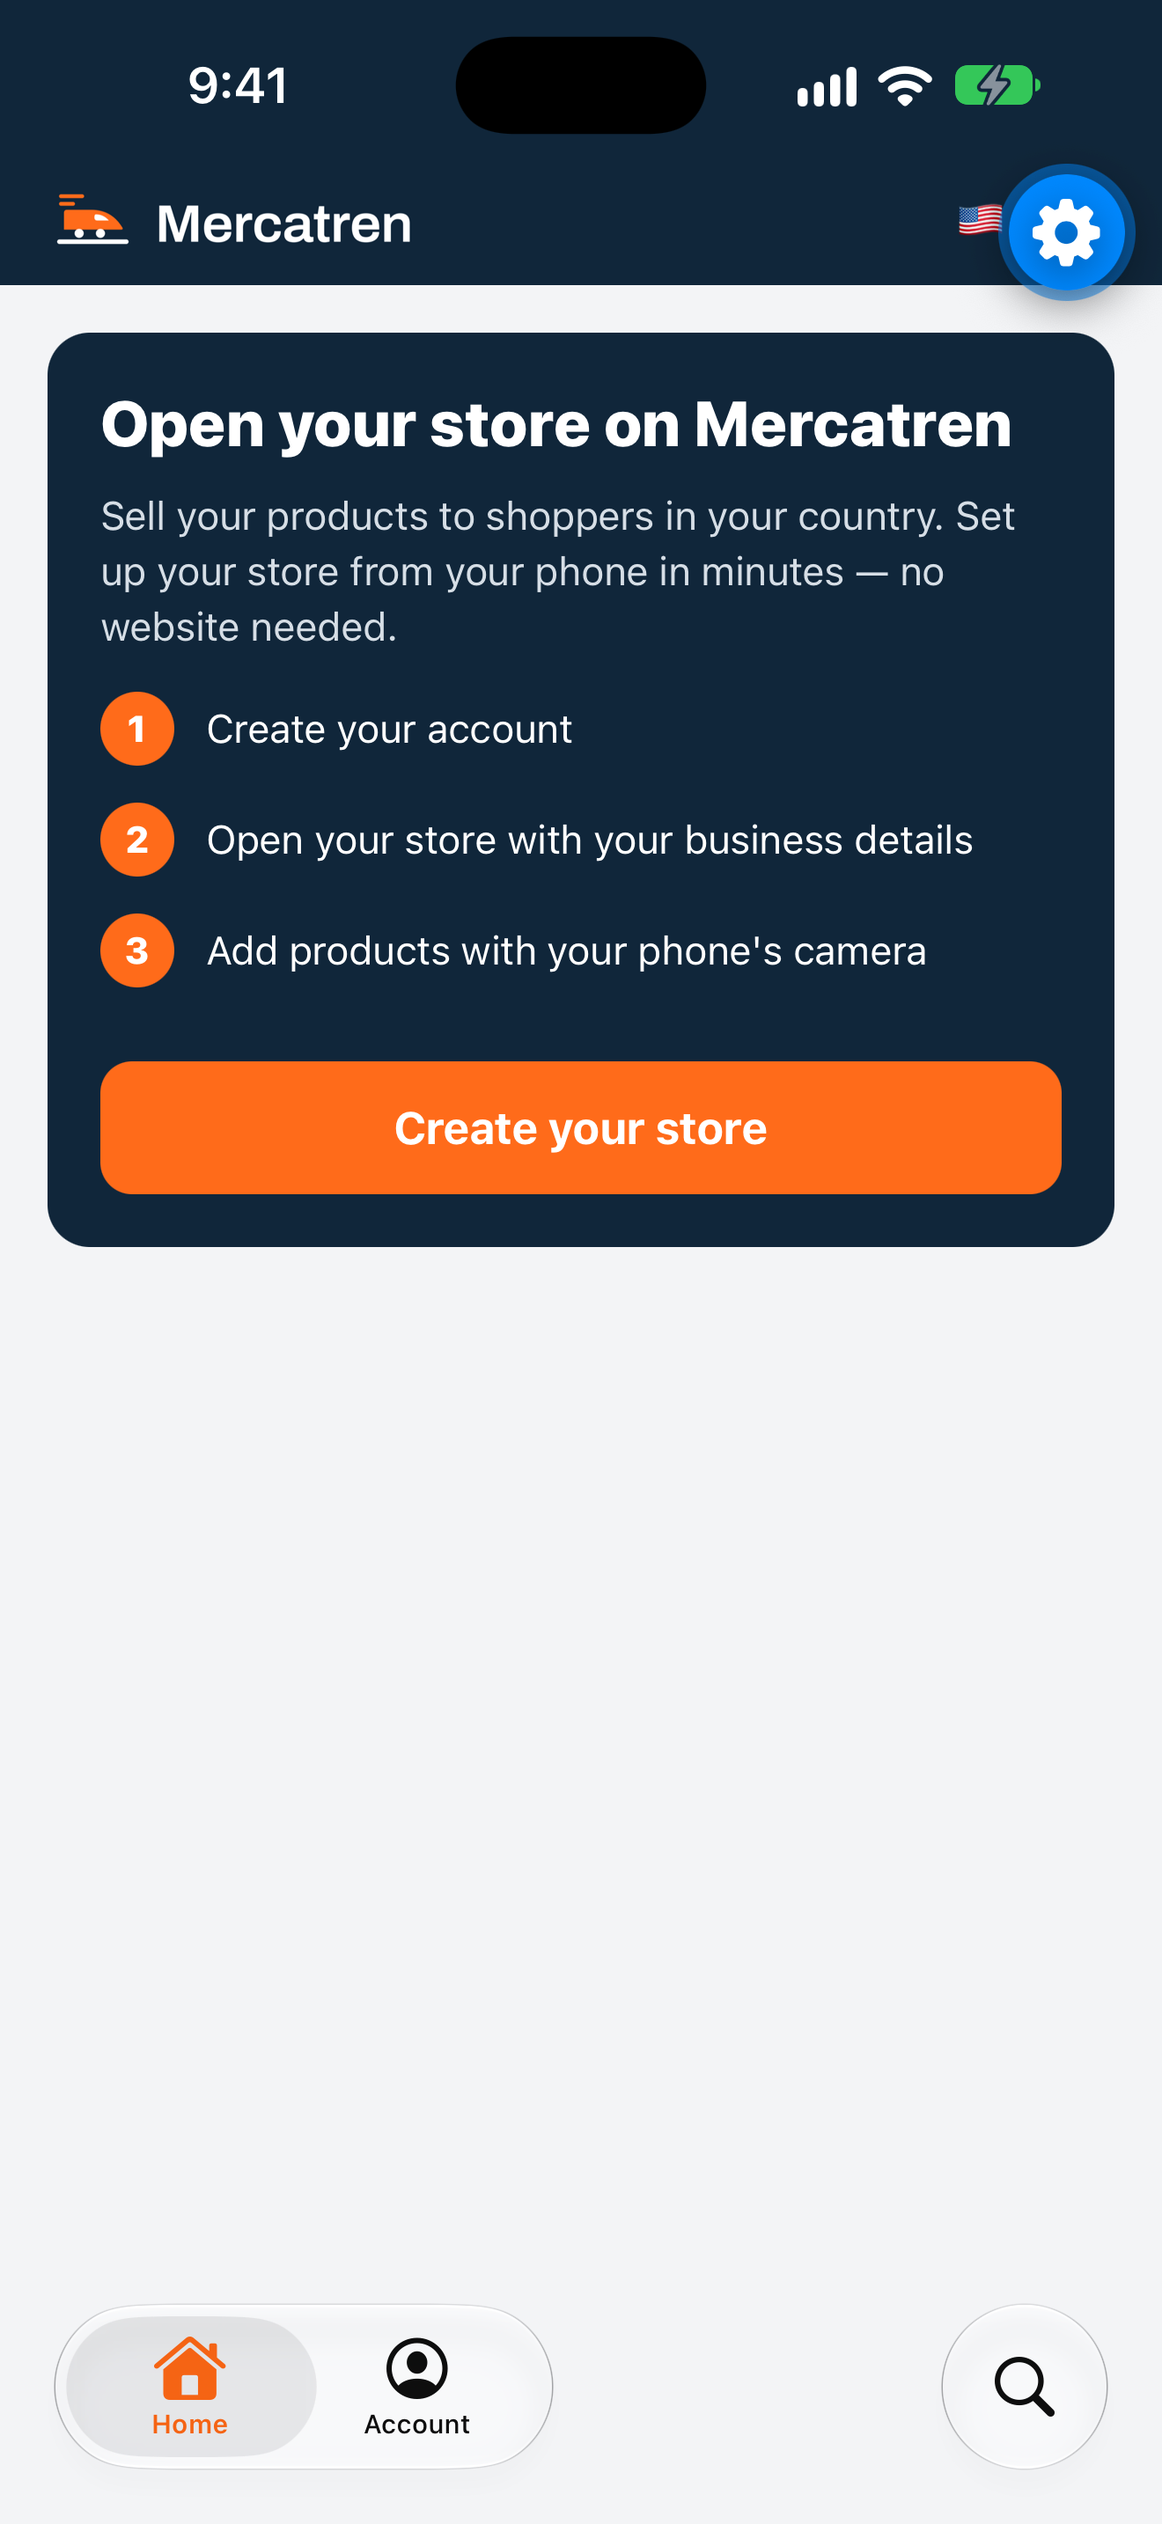
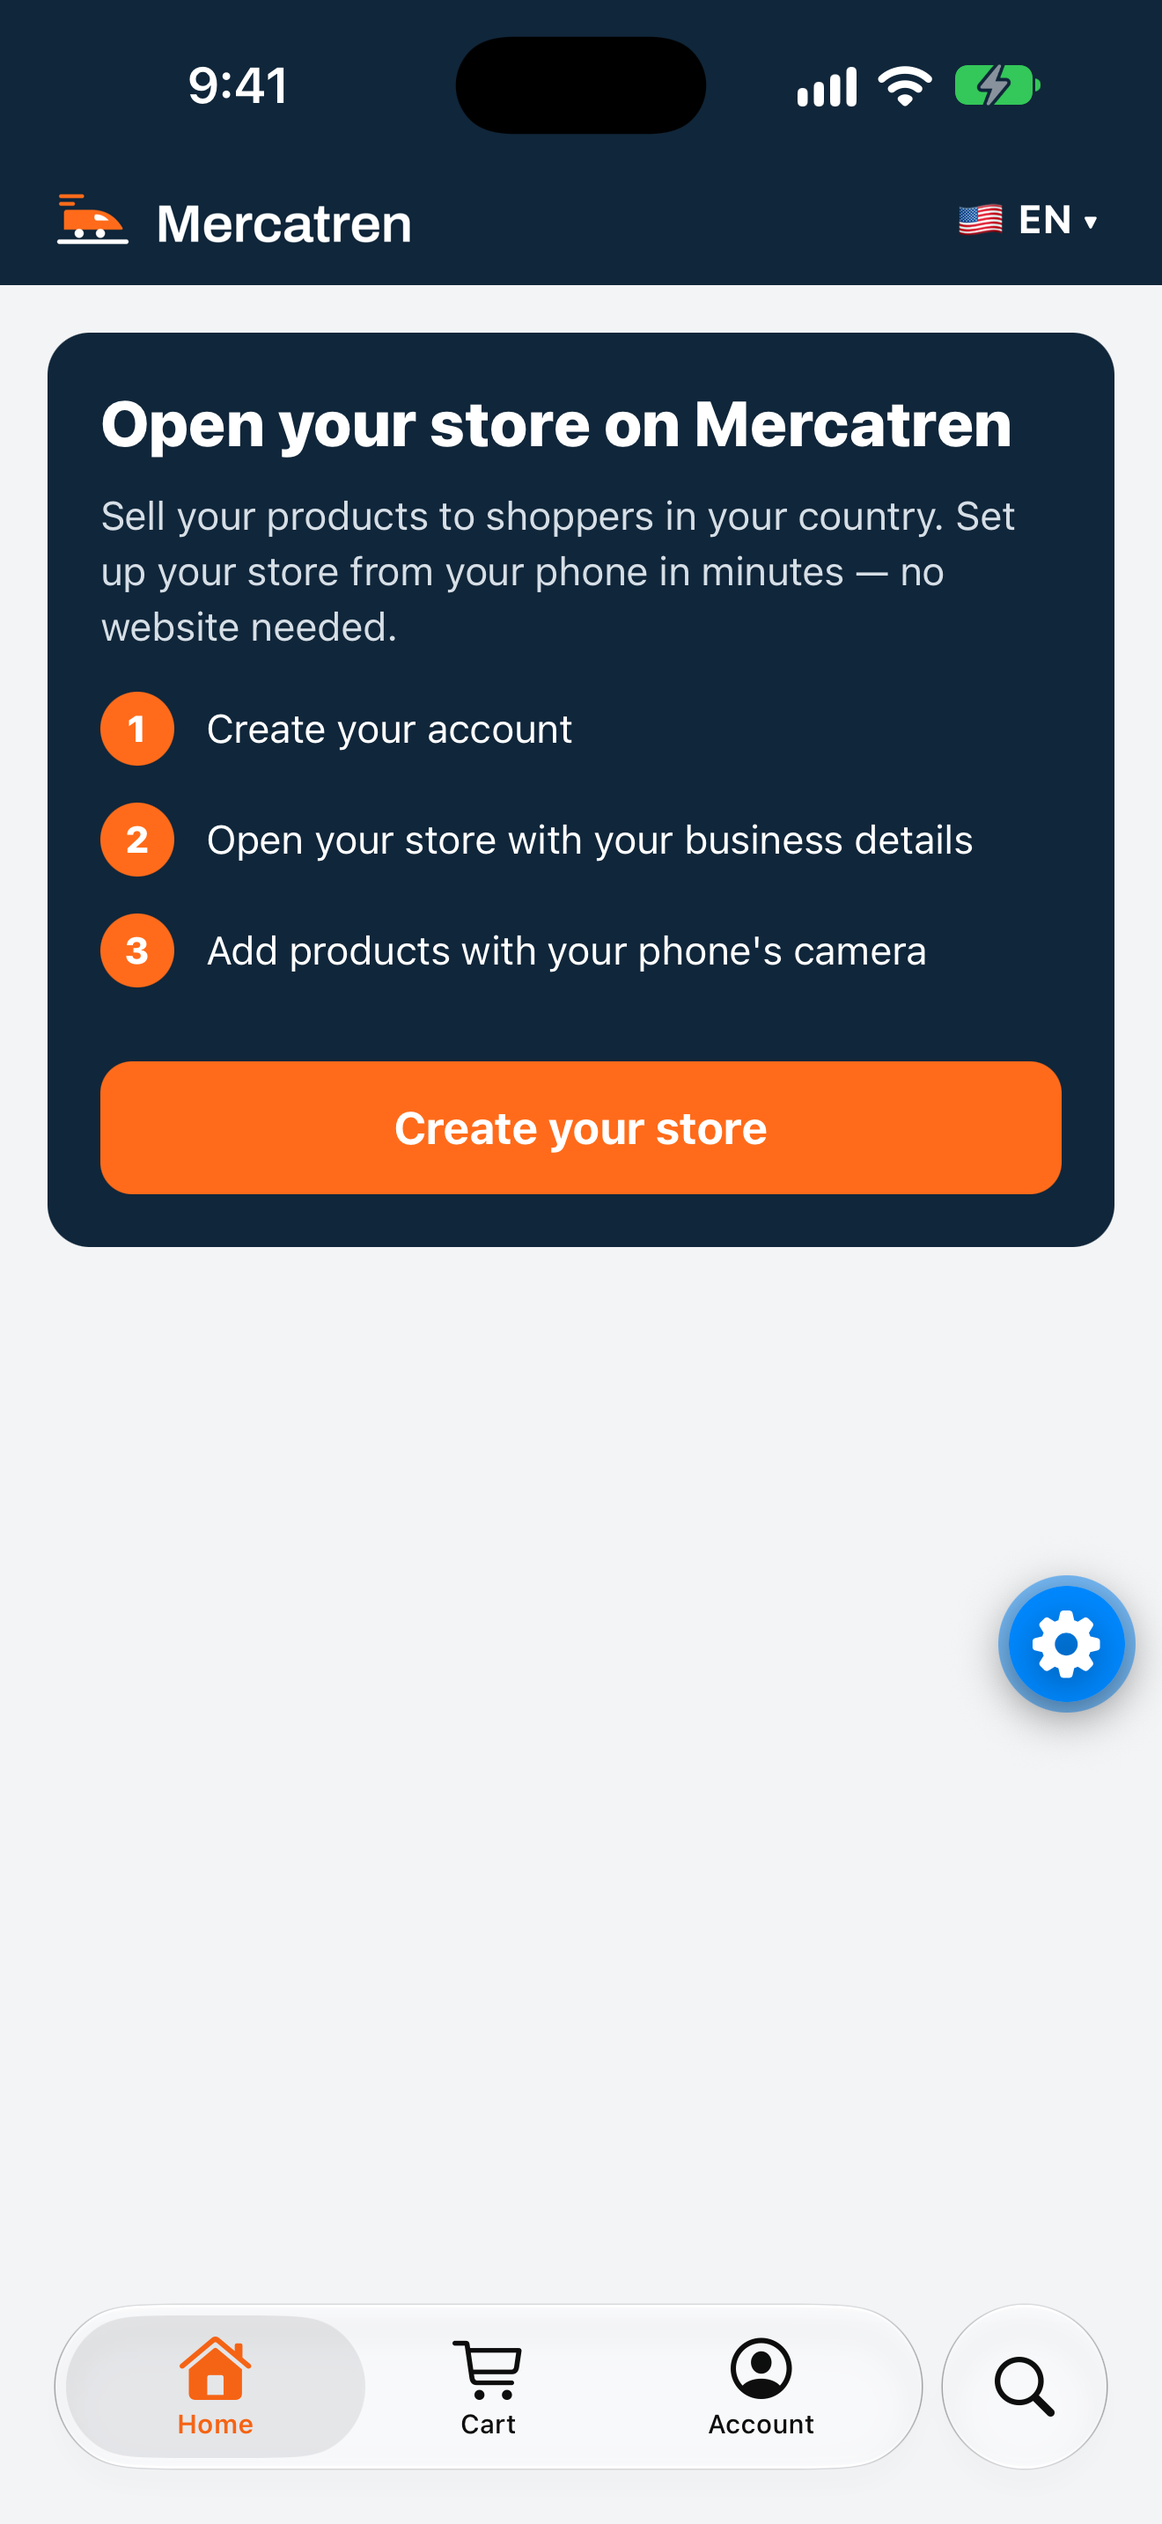
docs(app): guía pública para vender desde la app, en los dos idiomas
La guía «Vende desde el celular con la app de Mercatren» explica crear la
cuenta, abrir la tienda, subir productos con la cámara y cerrar la tienda
con su cuenta, con tres capturas reales por idioma y sin datos de prueba.
La prueba de imágenes exige que exista en los dos idiomas con sus capturas.

diff --git a/src/contenido/articulos/es.ts b/src/contenido/articulos/es.ts
@@ -14,6 +14,151 @@ import { SOCIEDAD } from "@/lib/sociedad";
  */
 export const ARTICULOS_ES: Articulo[] = [
   {
+    /* Dirección en inglés, como manda la regla de EE. UU.: es la misma en los dos idiomas. */
+    slug: "sell-with-the-mercatren-app",
+    tipo: "documentacion",
+    titulo: "Vende desde el celular con la app de Mercatren",
+    resumen:
+      "Crea tu cuenta, abre tu tienda y sube tus productos con la cámara del celular, en minutos y sin página web. Y si un día quieres irte, cierras tu tienda y borras tu cuenta desde la misma app.",
+    fecha: "2026-11-05",
+    temas: ["app", "comercios", "vender", "celular"],
+    cuerpo: [
+      {
+        tipo: "aviso",
+        tono: "acento",
+        titulo: "En una línea",
+        texto:
+          "Con la app de Mercatren montas tu tienda desde el celular: creas tu cuenta, pones los datos de tu empresa y subes cada producto con una foto. Tu tienda queda publicada al momento, sin esperar aprobación.",
+      },
+      {
+        tipo: "aviso",
+        tono: "neutro",
+        titulo: "La app está llegando a las tiendas",
+        texto:
+          "La app de Mercatren está entrando a la App Store y a Google Play. Mientras tanto, todo lo que cuenta esta guía se hace con los mismos pasos desde mercatren.com, en el navegador del celular o de la computadora.",
+      },
+      { tipo: "subtitulo", texto: "1. Crea tu cuenta" },
+      {
+        tipo: "parrafo",
+        texto:
+          "Abre la app, elige tu país y toca «Crea tu tienda». Escribe tu nombre, tu correo y una contraseña; con el ojito de la casilla puedes ver lo que escribes. La app comprueba sola que eres una persona, sin acertijos ni semáforos.",
+      },
+      {
+        tipo: "imagen",
+        src: "/docs/app/open-your-store-es.png",
+        alt: "La portada de la app de Mercatren con la invitación «Abre tu tienda en Mercatren», sus tres pasos y el botón «Crea tu tienda»",
+        pie: "Si todavía no tienes tienda, la portada te invita a abrirla en tres pasos.",
+      },
+      { tipo: "subtitulo", texto: "2. Abre tu tienda" },
+      {
+        tipo: "parrafo",
+        texto:
+          "Pon el nombre de tu tienda y los datos de tu empresa: razón social, identificación fiscal, teléfono, dirección y desde dónde envías. Los pedimos porque tus ventas se facturan a nombre de tu empresa.",
+      },
+      {
+        tipo: "lista",
+        puntos: [
+          "Tu tienda nace abierta: no esperas a que nadie la apruebe.",
+          "Antes de abrirla aceptas los términos para vendedores, que puedes leer desde la misma pantalla.",
+          "Si la app se cierra a mitad del formulario, lo que escribiste te espera al volver, con la opción de empezar de nuevo.",
+        ],
+      },
+      { tipo: "subtitulo", texto: "3. Sube tus productos con la cámara" },
+      {
+        tipo: "pasos",
+        pasos: [
+          {
+            titulo: "Toca «Agregar un producto»",
+            texto:
+              "Está en «Mi tienda», que abres desde la portada o desde «Cuenta».",
+          },
+          {
+            titulo: "Toma las fotos",
+            texto:
+              "Hasta ocho por producto, con la cámara o desde tu galería. La app las aligera antes de subirlas, para que no gastes tus datos.",
+          },
+          {
+            titulo: "Escribe el nombre en los dos idiomas",
+            texto:
+              "En español y en inglés, para que te encuentren todos los compradores. La descripción es opcional.",
+          },
+          {
+            titulo: "Pon tu precio",
+            texto:
+              "Es lo que recibes por cada venta. Debajo, la app te muestra al instante el precio que verá el comprador, con nuestro margen ya incluido.",
+          },
+          {
+            titulo: "Publica",
+            texto:
+              "Toca «Publicar producto» y aparece en el catálogo de tu país.",
+          },
+        ],
+      },
+      {
+        tipo: "imagen",
+        src: "/docs/app/add-a-product-es.png",
+        alt: "La pantalla «Nuevo producto» con dos fotos, el nombre en español y en inglés, un precio de 25 dólares y la línea «Lo que recibes por cada venta. El comprador verá $26.89.»",
+        pie: "Tú escribes lo que quieres recibir; la app te dice al momento cuánto verá el comprador.",
+      },
+      { tipo: "subtitulo", texto: "Cómo se factura cada venta" },
+      {
+        tipo: "parrafo",
+        texto: `Cada venta la factura ${SOCIEDAD.nombre}: tú nos vendes la mercancía y nosotros se la vendemos a tu cliente. Tú preparas y envías cada pedido a la dirección que indica el comprador, y te pagamos lo que te corresponde por tus ventas a tu cuenta bancaria registrada.`,
+      },
+      {
+        tipo: "subtitulo",
+        texto: "4. Si un día quieres irte: cierra tu tienda y borra tu cuenta",
+      },
+      {
+        tipo: "parrafo",
+        texto:
+          "Lo haces tú, desde la app, sin escribirle a nadie. Entra a «Cuenta», toca el menú de tres puntos de arriba y elige «Borrar la cuenta». Esto es lo que pasa:",
+      },
+      {
+        tipo: "pasos",
+        pasos: [
+          {
+            titulo: "Hoy mismo",
+            texto: "Tu tienda deja de venderse y sale de Mercatren.",
+          },
+          {
+            titulo: "Terminamos lo que está en curso",
+            texto:
+              "Completamos tus pedidos abiertos y revisamos los pagos que esperan.",
+          },
+          {
+            titulo: "Te pagamos",
+            texto:
+              "Lo que te corresponde por tus ventas llega a tu cuenta bancaria registrada.",
+          },
+          {
+            titulo: "Tu cuenta se borra sola",
+            texto:
+              "Cuando no queda nada pendiente —normalmente en menos de 30 días— tu cuenta se borra y te avisamos por correo.",
+          },
+        ],
+      },
+      {
+        tipo: "imagen",
+        src: "/docs/app/close-your-store-es.png",
+        alt: "La pantalla «Cerrar tu tienda y borrar tu cuenta» con los cuatro pasos, la casilla para escribir BORRAR y el botón para confirmar",
+        pie: "Para confirmar escribes BORRAR: así nadie cierra una tienda por un toque sin querer.",
+      },
+      {
+        tipo: "aviso",
+        tono: "neutro",
+        titulo: "Lo que se guarda",
+        texto:
+          "Las ventas y las facturas se guardan cinco años, como exige la ley, sin tu nombre. Si no tienes tienda y solo compras, tu cuenta se borra en el momento.",
+      },
+    ],
+    enlaces: [
+      { texto: "Empieza a vender", href: "/vender" },
+      { texto: "Cómo pedir ayuda", href: "/docs/como-pedir-ayuda" },
+    ],
+  },
+
+  {
     slug: "como-mandar-una-captura-a-soporte",
     tipo: "documentacion",
     titulo: "Cómo mandar una captura a soporte",

diff --git a/src/contenido/articulos/en.ts b/src/contenido/articulos/en.ts
@@ -14,6 +14,151 @@ import { SOCIEDAD } from "@/lib/sociedad";
  */
 export const ARTICULOS_EN: Articulo[] = [
   {
+    slug: "sell-with-the-mercatren-app",
+    tipo: "documentacion",
+    titulo: "Sell from your phone with the Mercatren app",
+    resumen:
+      "Create your account, open your store, and add products with your phone's camera — in minutes, no website needed. And if you ever want to leave, you close your store and delete your account from the same app.",
+    fecha: "2026-11-05",
+    temas: ["app", "comercios", "selling", "phone"],
+    cuerpo: [
+      {
+        tipo: "aviso",
+        tono: "acento",
+        titulo: "In short",
+        texto:
+          "With the Mercatren app, you set up your store from your phone: create your account, add your business details, and list each product with a photo. Your store goes live right away — no approval wait.",
+      },
+      {
+        tipo: "aviso",
+        tono: "neutro",
+        titulo: "The app is on its way to the stores",
+        texto:
+          "The Mercatren app is coming to the App Store and Google Play. Until then, everything in this guide works with the same steps at mercatren.com, from your phone's browser or your computer.",
+      },
+      { tipo: "subtitulo", texto: "1. Create your account" },
+      {
+        tipo: "parrafo",
+        texto:
+          "Open the app, choose your country, and tap “Create your store.” Enter your name, your email, and a password — tap the eye icon in the field to see what you typed. The app checks that you're a person on its own, with no puzzles to solve.",
+      },
+      {
+        tipo: "imagen",
+        src: "/docs/app/open-your-store-en.png",
+        alt: "The Mercatren app home screen with the “Open your store on Mercatren” invitation, its three steps, and the “Create your store” button",
+        pie: "If you don't have a store yet, the home screen walks you through opening one in three steps.",
+      },
+      { tipo: "subtitulo", texto: "2. Open your store" },
+      {
+        tipo: "parrafo",
+        texto:
+          "Enter your store name and your business details: legal name, tax ID, phone number, address, and where you ship from. We ask for them because your sales are invoiced in your business's name.",
+      },
+      {
+        tipo: "lista",
+        puntos: [
+          "Your store opens live: there's no approval to wait for.",
+          "Before opening it, you accept the seller terms, which you can read from the same screen.",
+          "If the app closes halfway through the form, everything you typed is waiting when you come back, with the option to start over.",
+        ],
+      },
+      { tipo: "subtitulo", texto: "3. Add products with your camera" },
+      {
+        tipo: "pasos",
+        pasos: [
+          {
+            titulo: "Tap “Add a product”",
+            texto:
+              "It's under “My store,” which you open from the home screen or from “Account.”",
+          },
+          {
+            titulo: "Take your photos",
+            texto:
+              "Up to eight per product, with the camera or from your photo library. The app makes them lighter before uploading, so you don't burn through your data.",
+          },
+          {
+            titulo: "Name it in both languages",
+            texto:
+              "In Spanish and English, so every shopper can find it. The description is optional.",
+          },
+          {
+            titulo: "Set your price",
+            texto:
+              "It's what you receive for each sale. Right below, the app instantly shows the price shoppers will see, with our margin already included.",
+          },
+          {
+            titulo: "Publish",
+            texto:
+              "Tap “Publish product,” and it shows up in your country's catalog.",
+          },
+        ],
+      },
+      {
+        tipo: "imagen",
+        src: "/docs/app/add-a-product-en.png",
+        alt: "The “New product” screen with two photos, the name in Spanish and English, a $25 price, and the line “What you receive for each sale. Shoppers will see $26.89.”",
+        pie: "You enter what you want to receive; the app tells you right away what shoppers will see.",
+      },
+      { tipo: "subtitulo", texto: "How each sale is invoiced" },
+      {
+        tipo: "parrafo",
+        texto: `Every sale is invoiced by ${SOCIEDAD.nombre}: you sell the merchandise to us, and we sell it to your customer. You pack and ship each order to the address the shopper provides, and we pay you what you're owed for your sales to your registered bank account.`,
+      },
+      {
+        tipo: "subtitulo",
+        texto:
+          "4. If you ever want to leave: close your store and delete your account",
+      },
+      {
+        tipo: "parrafo",
+        texto:
+          "You do it yourself, from the app, without contacting anyone. Go to “Account,” tap the three-dot menu at the top, and choose “Delete account.” Here's what happens:",
+      },
+      {
+        tipo: "pasos",
+        pasos: [
+          {
+            titulo: "Today",
+            texto: "Your store stops selling and is removed from Mercatren.",
+          },
+          {
+            titulo: "We wrap up what's in progress",
+            texto:
+              "We complete your open orders and review any pending payments.",
+          },
+          {
+            titulo: "We pay you",
+            texto:
+              "What you're owed for your sales goes to your registered bank account.",
+          },
+          {
+            titulo: "Your account deletes itself",
+            texto:
+              "Once nothing is pending — usually within 30 days — your account is deleted and we email you.",
+          },
+        ],
+      },
+      {
+        tipo: "imagen",
+        src: "/docs/app/close-your-store-en.png",
+        alt: "The “Close your store and delete your account” screen with the four steps, the field to type DELETE, and the confirm button",
+        pie: "To confirm, you type DELETE — so no one closes a store with an accidental tap.",
+      },
+      {
+        tipo: "aviso",
+        tono: "neutro",
+        titulo: "What we keep",
+        texto:
+          "Sales and invoices are kept for five years, as required by law, without your name. If you don't have a store and only shop, your account is deleted right away.",
+      },
+    ],
+    enlaces: [
+      { texto: "Start selling", href: "/vender" },
+      { texto: "How to get help", href: "/docs/como-pedir-ayuda" },
+    ],
+  },
+
+  {
     slug: "como-mandar-una-captura-a-soporte",
     tipo: "documentacion",
     titulo: "How to send a screenshot to support",

diff --git a/tests/unit/articulos-imagenes.test.ts b/tests/unit/articulos-imagenes.test.ts
@@ -44,6 +44,22 @@ describe("toda imagen de un artículo existe en public/", () => {
     }
   }
 
+  it("la guía de la app existe en los dos idiomas, con sus capturas y dirección en inglés", () => {
+    /* Regla de la casa (12 oct 2026): lo nuevo se explica al público en Docs,
+       en los dos idiomas y con capturas reales. La app nativa (5 nov 2026)
+       trae crear la tienda, subir productos y cerrar la cuenta sola. */
+    const slug = "sell-with-the-mercatren-app";
+    for (const articulos of [ARTICULOS_ES, ARTICULOS_EN]) {
+      const guia = articulos.find((a) => a.slug === slug);
+      expect(guia, slug).toBeTruthy();
+      const capturas = guia!.cuerpo.filter((b) => b.tipo === "imagen");
+      expect(capturas.length).toBeGreaterThanOrEqual(3);
+      expect(guia!.temas).toContain("comercios");
+    }
+    /* Para EE. UU. las direcciones van en inglés, también la del español. */
+    expect(slug).toMatch(/^[a-z-]+$/);
+  });
+
   it("el tutorial del W-8BEN-E existe en los dos idiomas y lleva capturas", () => {
     const es = ARTICULOS_ES.find((a) => a.slug === "formulario-fiscal-w8ben-e");
     const en = ARTICULOS_EN.find((a) => a.slug === "formulario-fiscal-w8ben-e");

diff --git a/PENDIENTES.md b/PENDIENTES.md
@@ -131,8 +131,13 @@ apruebe Divoox.
       cuenta. Probado en el simulador de iPhone contra el servidor local; un
       país apagado devuelve a la bienvenida. Pruebas en
       `tests/unit/app-movil-pantallas.test.ts`. Ver `app-movil/LEEME.md`.
-- [ ] 💻 Antes de subir a las tiendas: la guía pública de la app en Docs, en
-      los dos idiomas, con las capturas de `docs/capturas/app-nativa/`.
+- [x] ✅ 💻 La guía pública de la app en Docs, en los dos idiomas, con tres
+      capturas reales por idioma: «Vende desde el celular con la app de
+      Mercatren» (dirección `/docs/sell-with-the-mercatren-app`). Cuenta crear
+      la cuenta, abrir la tienda, subir productos y cerrar la tienda. Dice que
+      la app está llegando a las tiendas: al publicarla allá, se cambia ese
+      aviso por los botones de descarga. Candado en
+      `tests/unit/articulos-imagenes.test.ts` (5 nov 2026).
 - [x] ✅ 💻 Parte 3a · Las cuentas en la app: crear cuenta (con el país y el
       idioma de la app), entrar, cerrar sesión, escudo anti-robots en vista
       web, borrador que no guarda la contraseña. Probado en el simulador (ver
